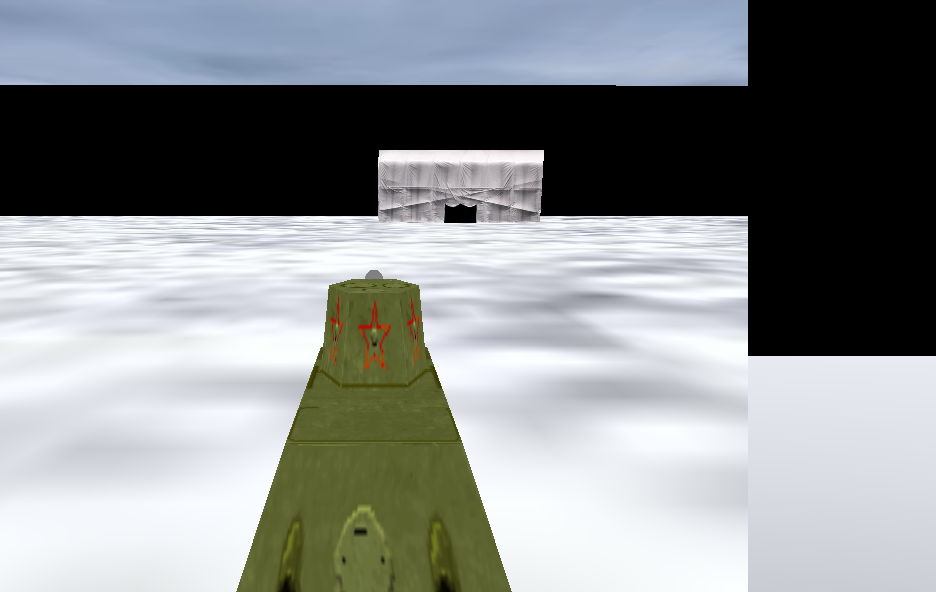
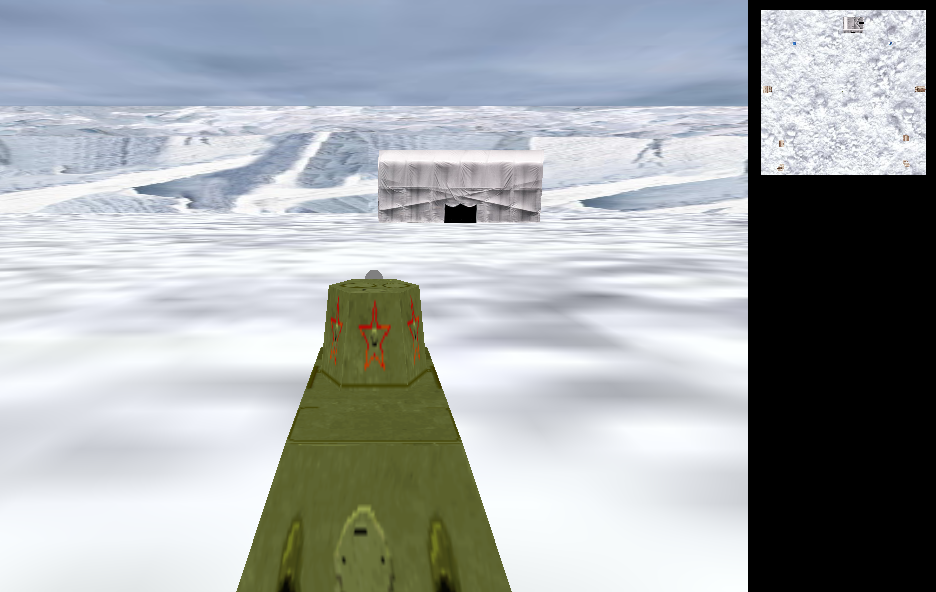
Fix Tank Attack feedback: WASD, walls, minimap, visible explosions
- Remap to standard WASD (W/S drive, A/D turn) instead of the original's
  W/Z move + A/S turn with no D
- Raise the far clip plane (400 -> 2000) so the arena cliff walls, which sit
  ~500 from the centre, stop being clipped
- Replace the original's mostly-off-screen, broken minimap with a simple
  top-down corner minimap (own square projection, scissored clear, floor-only
  so the sky lid doesn't block the overhead view)
- Hide a building's walls once it's hit so the growing explosion is actually
  visible (the original drew both, burying the explosion inside the building)

Changed region(s): [[0.0, 0.0, 0.9915, 0.3649], [0.7746, 0.5777, 1.0, 1.0]]

diff --git a/src/TankAttack/TankWindow.cs b/src/TankAttack/TankWindow.cs
@@ -41,7 +41,7 @@ namespace Tank
             : base(GameWindowSettings.Default, new NativeWindowSettings
             {
                 ClientSize = new Vector2i(936, 592),
-                Title = "Tank Attack  (W/Z drive, A/S turn, ,/. + PgUp/PgDn aim, Space fire, F1 fog F2 light F3 night)",
+                Title = "Tank Attack  (WASD drive/turn, ,/. + PgUp/PgDn aim, Space fire, F1 fog F2 light F3 night)",
                 Profile = ContextProfile.Compatability, // fixed-function GL needs compatibility
                 APIVersion = new Version(3, 3),
             })
@@ -171,7 +171,9 @@ namespace Tank
             double aspect = ClientSize.Y > 0 ? (ClientSize.X * 0.8) / ClientSize.Y : 1.0;
             GL.MatrixMode(MatrixMode.Projection);
             GL.LoadIdentity();
-            Glu.Perspective(60, aspect, 0.01, 400);
+            // Far plane was 400, but the arena walls sit ~500 from the centre and
+            // were being clipped; 2000 lets the whole arena render.
+            Glu.Perspective(60, aspect, 0.01, 2000);
             GL.MatrixMode(MatrixMode.Modelview);
         }
 
@@ -244,20 +246,44 @@ namespace Tank
             }
             GL.PopMatrix();
 
-            // ---- Minimap (top-down), faithful to the original's viewport ----
+            // ---- Minimap: a top-down overhead view in the top-right corner ----
+            // The original's minimap viewport was mostly off-screen with a broken
+            // camera; this is a simple square corner map looking straight down on
+            // the tank, with its own square projection and a scissored clear.
+            int mm = (int)(h * 0.28);
+            int mx = w - mm - 10, my = h - mm - 10;
+            GL.Viewport(mx, my, mm, mm);
+
+            GL.Enable(EnableCap.ScissorTest);
+            GL.Scissor(mx, my, mm, mm);
+            GL.ClearColor(0.05f, 0.05f, 0.05f, 1f);
+            GL.Clear(ClearBufferMask.ColorBufferBit | ClearBufferMask.DepthBufferBit);
+            GL.ClearColor(0f, 0f, 0f, 0f);
+            GL.Disable(EnableCap.ScissorTest);
+
+            GL.MatrixMode(MatrixMode.Projection);
             GL.PushMatrix();
-            GL.Viewport((int)(w - (w * 0.2)), 0, w, (int)(h - (h * 0.6)));
-            Glu.LookAt(eye[0], eye[1], eye[2], lookAt[0], lookAt[1], lookAt[2], 0, 1, 0);
-            GL.Rotate(90, 1, 0, 0);
-            tankBody.draw();
+            GL.LoadIdentity();
+            Glu.Perspective(60, 1, 1, 2000);
+            GL.MatrixMode(MatrixMode.Modelview);
+            GL.LoadIdentity();
 
-            GL.Rotate(-tankBody.Yaw, 0, 1, 0);
-            GL.Translate(-tankBody.Position[0], -tankBody.Position[1], -tankBody.Position[2]);
+            float tx = tankBody.Position[0], tz = tankBody.Position[2];
+            Glu.LookAt(tx, 600, tz, tx, 0, tz, 0, 0, 1); // straight down, +Z is "up"
 
-            ground.draw();
+            ground.drawFloor(); // floor only — the sky lid would block the overhead view
             foreach (var building in buildings)
                 if (!building.expired) building.draw();
+
+            GL.PushMatrix();
+            GL.Translate(tx, 0, tz);
+            GL.Rotate(360 - tankBody.Yaw, 0, 1, 0);
+            tankBody.draw();
             GL.PopMatrix();
+
+            GL.MatrixMode(MatrixMode.Projection);
+            GL.PopMatrix();
+            GL.MatrixMode(MatrixMode.Modelview);
         }
 
         private void Capture(string path)

diff --git a/src/TankAttack/Building.cs b/src/TankAttack/Building.cs
@@ -27,6 +27,16 @@ namespace Tank
         {
             if (expired) return;
 
+            // Once hit, the building is gone — stop drawing its walls so the
+            // growing explosion in its place is actually visible (the original
+            // drew both, leaving the explosion buried inside the solid building).
+            if (exploding)
+            {
+                if (explosion.expired) { explosion = null; expired = true; }
+                else explosion.draw();
+                return;
+            }
+
             GL.Color3(1f, 1f, 1f);
 
             GL.PushMatrix();
@@ -76,19 +86,6 @@ namespace Tank
                     (1, 0), (dimensions.Width + 1, dimensions.Height, dimensions.Depth + 1));
             }
             GL.PopMatrix();
-
-            if (exploding)
-            {
-                if (explosion.expired)
-                {
-                    explosion = null;
-                    expired = true;
-                }
-                else
-                {
-                    explosion.draw();
-                }
-            }
         }
 
         // A textured quad: corners are listed with the same (0,0),(0,1),(1,1),(1,0)

diff --git a/src/TankAttack/Ground.cs b/src/TankAttack/Ground.cs
@@ -16,6 +16,16 @@ namespace Tank
             this.dimensions = dimensions;
         }
 
+        /// <summary>Just the floor quad — used by the top-down minimap, which must
+        /// not draw the sky lid (it would block the overhead view of the ground).</summary>
+        public void drawFloor()
+        {
+            GL.Color3(1f, 1f, 1f);
+            var d = dimensions;
+            Quad(1, 0, 1, 0,
+                (d.Left, d.Bottom, d.Near), (d.Left, d.Bottom, d.Far), (d.Right, d.Bottom, d.Far), (d.Right, d.Bottom, d.Near));
+        }
+
         public void draw()
         {
             GL.Color3(1f, 1f, 1f);
@@ -26,8 +36,7 @@ namespace Tank
                 (d.Left, d.Top, d.Near), (d.Left, d.Top, d.Far), (d.Right, d.Top, d.Far), (d.Right, d.Top, d.Near));
 
             // Ground (texture 1)
-            Quad(1, 0, 1, 0,
-                (d.Left, d.Bottom, d.Near), (d.Left, d.Bottom, d.Far), (d.Right, d.Bottom, d.Far), (d.Right, d.Bottom, d.Near));
+            drawFloor();
 
             // Cliff walls (texture 2)
             textures.useTexture(2);

diff --git a/src/TankAttack/Control.cs b/src/TankAttack/Control.cs
@@ -24,10 +24,12 @@ namespace Tank
         /// <summary>Held-key actions, called once per frame.</summary>
         public void Update(KeyboardState keyboard)
         {
+            // Standard WASD: the original used W/Z to move and A/S to turn (no D),
+            // which felt mismapped. W/S now drive, A/D turn the tank.
             if (keyboard.IsKeyDown(Keys.W)) toMove.moveForward();
-            if (keyboard.IsKeyDown(Keys.Z)) toMove.moveBackward();
-            if (keyboard.IsKeyDown(Keys.S)) toMove.yawAntiClockwise();
-            if (keyboard.IsKeyDown(Keys.A)) toMove.yawClockwise();
+            if (keyboard.IsKeyDown(Keys.S)) toMove.moveBackward();
+            if (keyboard.IsKeyDown(Keys.A)) toMove.yawClockwise();      // turn left
+            if (keyboard.IsKeyDown(Keys.D)) toMove.yawAntiClockwise();  // turn right
 
             if (keyboard.IsKeyDown(Keys.PageUp)) toAim.pitchUp();
             if (keyboard.IsKeyDown(Keys.PageDown)) toAim.pitchDown();

diff --git a/README.md b/README.md
@@ -25,8 +25,8 @@ dotnet run
 
 | Input | Action |
 | --- | --- |
-| `W` / `Z` | drive forward / backward |
-| `A` / `S` | turn the tank left / right |
+| `W` / `S` | drive forward / backward |
+| `A` / `D` | turn the tank left / right |
 | `,` / `.` | turn the turret left / right |
 | `PgUp` / `PgDn` | raise / lower the gun |
 | `Space` | fire a shell |
